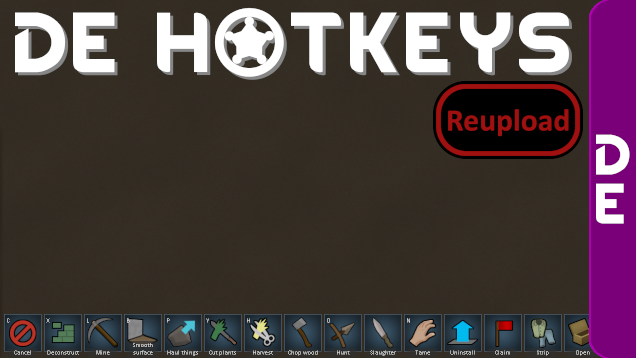
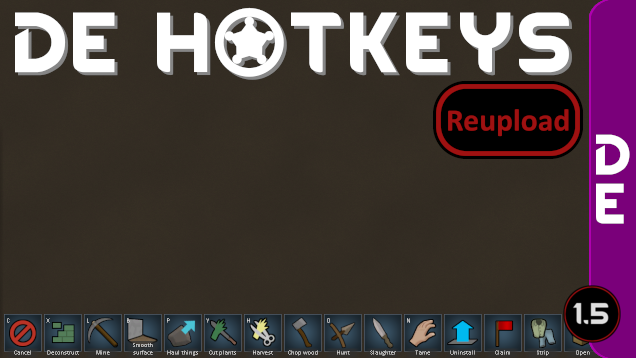
Mod updated for 1.5 and passed autotests

Changed region(s): [[0.8664, 0.7989, 0.9858, 0.9832]]

diff --git a/Source/DEHotkeys/InputPatch.cs b/Source/DEHotkeys/InputPatch.cs
@@ -30,16 +30,6 @@ public class InputPatch
 
     private static void CheckHotkey(string key, int orderNum)
     {
-        //code from trying to add feature where hotkeys are allowed where their gizmos do not appear
-        /*
-        if (Find.MainTabsRoot.OpenTab != null && Find.MainTabsRoot.OpenTab.defName.Equals("Inspect") && ((MainTabWindow_Inspect)Find.MainTabsRoot.OpenTab.TabWindow).ShouldShowPaneContents)
-        {
-            foreach (Gizmo gizmo in ((ISelectable)Find.Selector.SingleSelectedObject).GetGizmos())
-            {
-                Log.Error(Convert.ToString(gizmo.GetType()));
-            }
-        }
-        */
         if (!Input.GetKeyDown(key))
         {
             return;

diff --git a/Source/DEHotkeys/Main.cs b/Source/DEHotkeys/Main.cs
@@ -9,7 +9,6 @@ public static class Main
 {
     static Main()
     {
-        var harmony = new Harmony("DEHotkeys");
-        harmony.PatchAll(Assembly.GetExecutingAssembly());
+        new Harmony("DEHotkeys").PatchAll(Assembly.GetExecutingAssembly());
     }
 }

diff --git a/README.md b/README.md
@@ -32,11 +32,13 @@ made by DemonEinstein on August 10, 2018
 
 -  See if the the error persists if you just have this mod and its requirements active.
 -  If not, try adding your other mods until it happens again.
--  Post your error-log using https://steamcommunity.com/workshop/filedetails/?id=818773962]HugsLib and command Ctrl+F12
+-  Post your error-log using https://steamcommunity.com/workshop/filedetails/?id=818773962]HugsLib or the standalone https://steamcommunity.com/sharedfiles/filedetails/?id=2873415404]Uploader and command Ctrl+F12
 -  For best support, please use the Discord-channel for error-reporting.
 -  Do not report errors by making a discussion-thread, I get no notification of that.
 -  If you have the solution for a problem, please post it to the GitHub repository.
+-  Use https://github.com/RimSort/RimSort/releases/latest]RimSort to sort your mods
 
 
 
+https://steamcommunity.com/sharedfiles/filedetails/changelog/2194026191]![Image](https://img.shields.io/github/v/release/emipa606/DEHotkeys?label=latest%20version&style=plastic&color=9f1111&labelColor=black)
 
